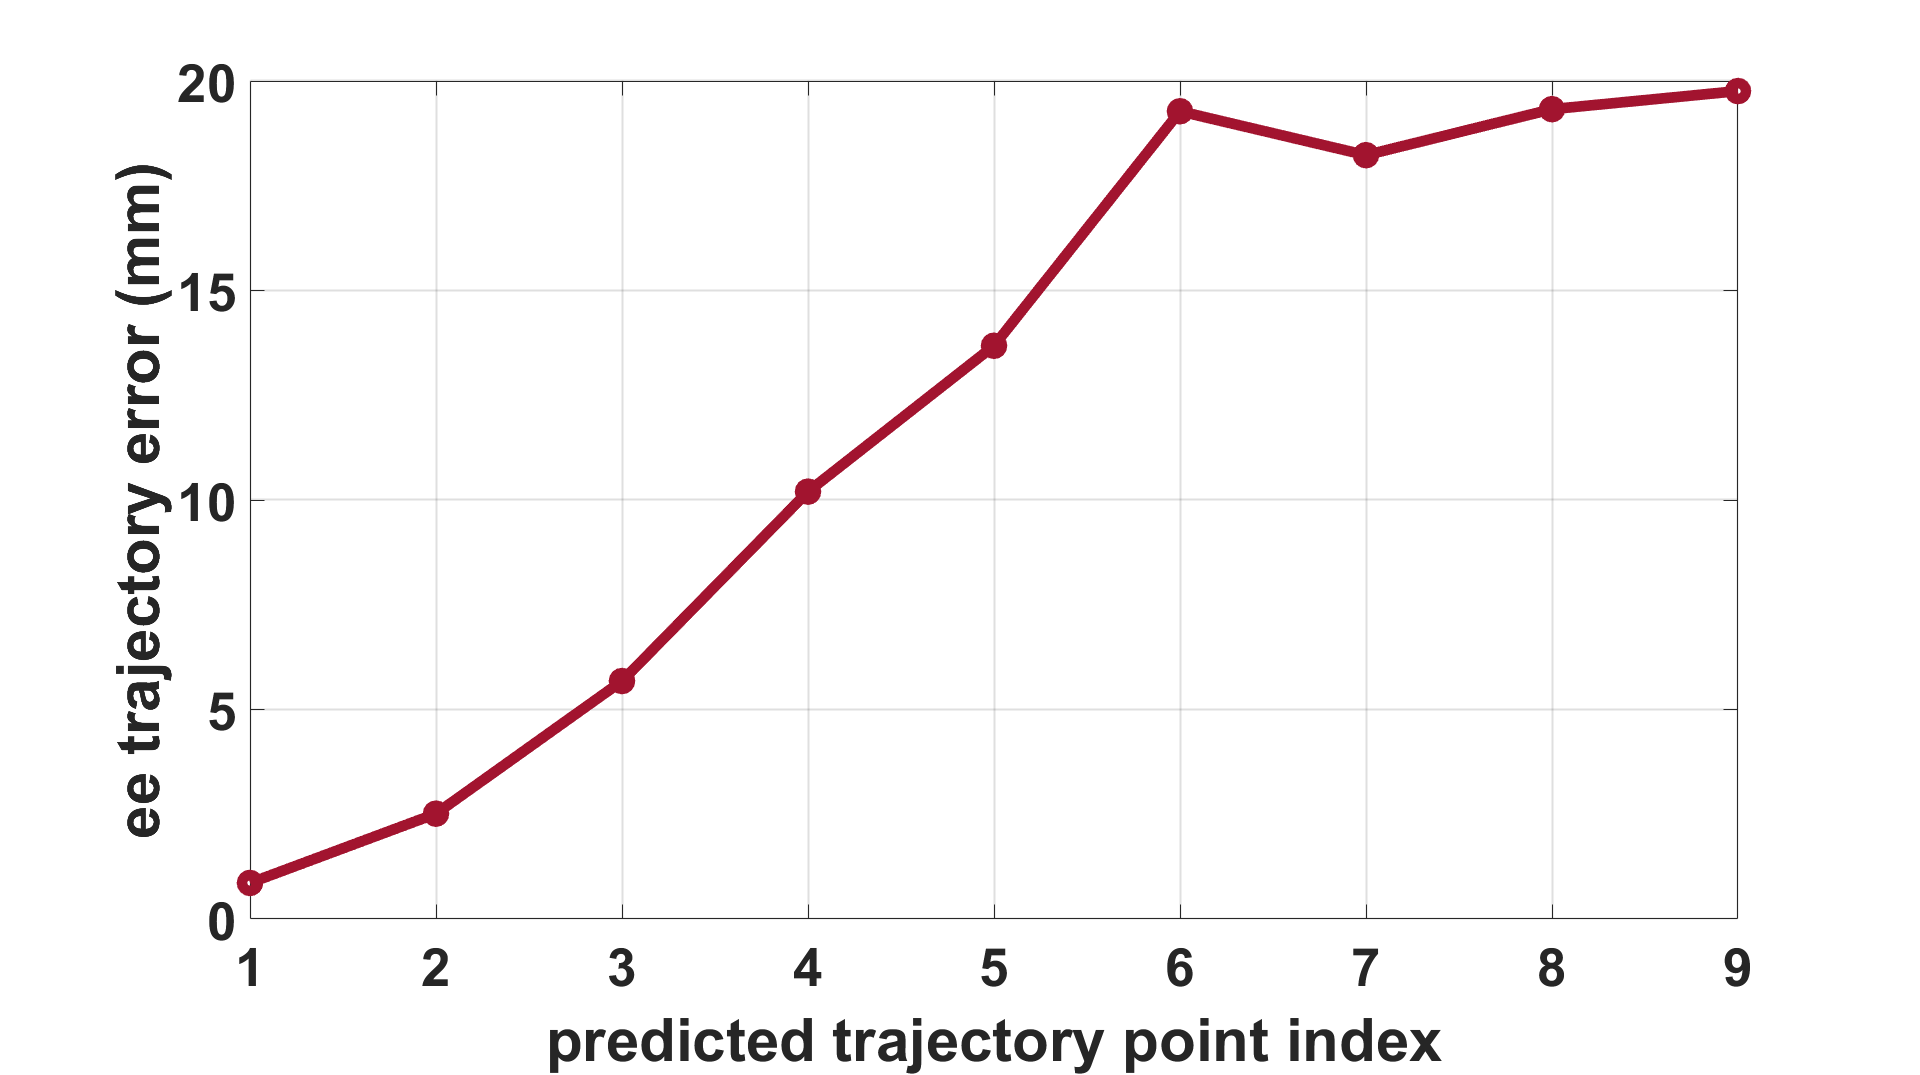
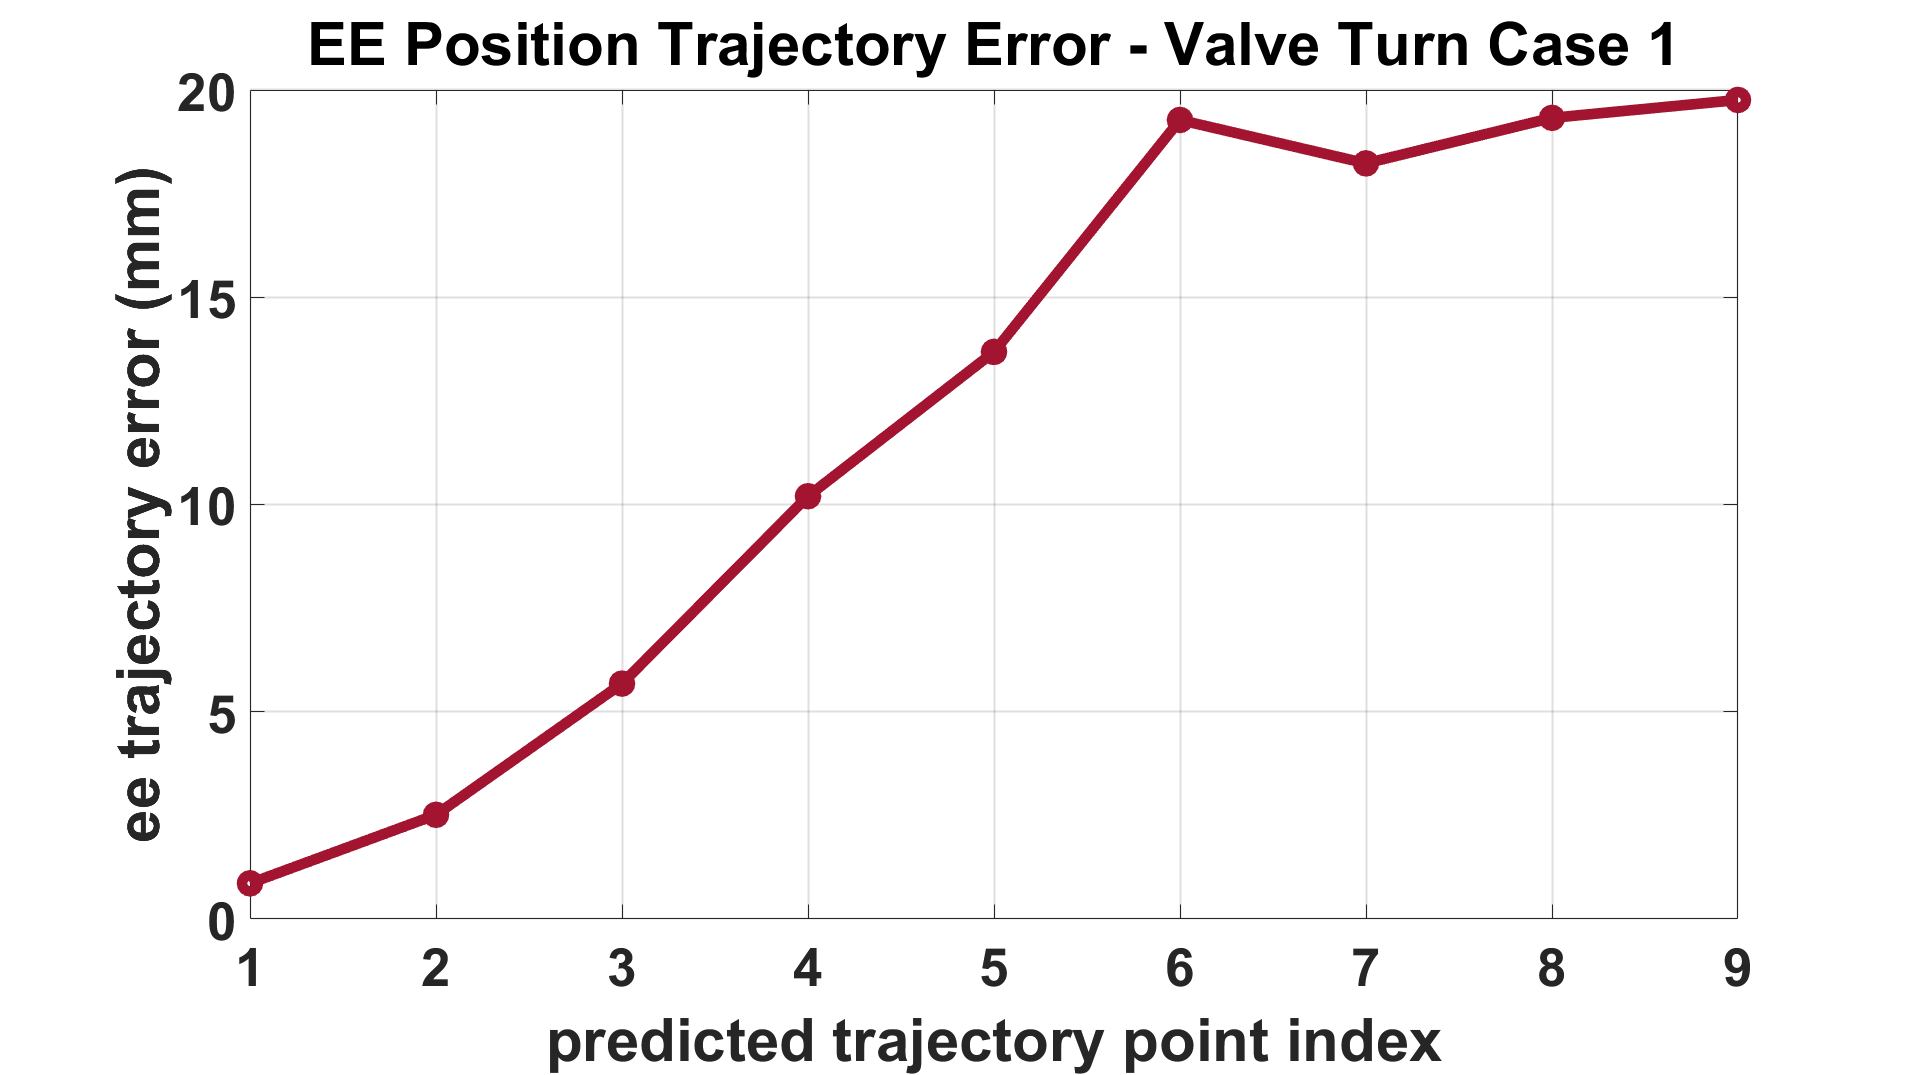
add subtitles

diff --git a/real_robot_data_plots_and_demos/orientation_experiments/valve_turn_case_1/ee_position_and_joint_states_plotter.m b/real_robot_data_plots_and_demos/orientation_experiments/valve_turn_case_1/ee_position_and_joint_states_plotter.m
@@ -207,7 +207,7 @@ grid_lw = 1.5;
 xlabel(ax_joint_states, 'time (s)');
 ylabel(ax_joint_states, 'joint states (rad)');
 legend(ax_joint_states,'Interpreter', 'none', 'Color', 'none'); % Don't interpret underscores as cues for subscripts, and don't fill the legend box
-% title(ax_joint_states, ['Actual Joint States vs. Time - ',title_postfix]);
+title(ax_joint_states, ['Actual Joint States vs. Time - ',title_postfix]);
 
 % Set fontsizes for various plot parameters
 ax_joint_states.XAxis.FontSize = tick_fontsize; 
@@ -218,15 +218,15 @@ ax_joint_states.XLabel.FontSize = label_fontsize;
 ax_joint_states.YLabel.FontSize = label_fontsize;
 ax_joint_states.ZLabel.FontSize = label_fontsize;
 ax_joint_states.Legend.FontSize = legend_fontsize;
-ax_joint_states.Legend.Location = "northeast";
+ax_joint_states.Legend.Location = "east";
 ax_joint_states.Title.FontSize = title_fontsize;
 ax_joint_states.GridLineWidth = grid_lw;
 
 % Set legend position
-% legend_position = ax_joint_states.Legend.Position;
-% shift_amount_x = 0.3825; 
-% shift_amount_y = 0.1825; 
-% ax_joint_states.Legend.Position = [legend_position(1) + shift_amount_x, legend_position(2)+ shift_amount_y, legend_position(3), legend_position(4)];
+legend_position = ax_joint_states.Legend.Position;
+shift_amount_x = 0.285; 
+shift_amount_y = 0.2125; 
+ax_joint_states.Legend.Position = [legend_position(1) + shift_amount_x, legend_position(2)+ shift_amount_y, legend_position(3), legend_position(4)];
 
 % Plot Error between predicted and actual EE cartesian trajectory
 fig3 = figure(3); 
@@ -338,7 +338,7 @@ ylim([25 325])
 
 xlabel(ax_ee_traj_final, 'x(mm)');
 ylabel(ax_ee_traj_final, 'z(mm)');
-% title(ax_ee_traj_final, ['EE Trajectory and Error - ',title_postfix]);
+title(ax_ee_traj_final, ['EE Position Trajectory - ',title_postfix]);
 hLegend = legend(ax_ee_traj_final, 'Interpreter', 'none', 'Color', 'none');
 hLegend.Box = 'on'; % Turn on the legend box (if not already on)
 hLegend.Color = 'white'; % Set the background color of the legend box
@@ -370,7 +370,7 @@ ax_ee_traj_final.Legend.FontSize = legend_fontsize;
 
 
 fig5 = figure(5);
-title_fontsize = 35;
+title_fontsize = 45;
 label_fontsize = 45;
 tick_fontsize = 40;
 grid_lw = 1.5;
@@ -386,7 +386,7 @@ plot(ax_ee_traj_error_final, ...
      'LineWidth', 8, 'MarkerSize', 12, 'DisplayName', 'trajectory error');
 xlabel(ax_ee_traj_error_final, 'predicted trajectory point index');
 ylabel(ax_ee_traj_error_final, 'ee trajectory error (mm)');
-% title(ax_ee_traj_error3, ['EE Trajectory Error - ',title_postfix]);
+title(ax_ee_traj_error_final, ['EE Position Trajectory Error - ',title_postfix]);
 
 grid on
 
@@ -470,7 +470,7 @@ grid on
 
 xlabel(ax_ee_or, 'time (t), s');
 ylabel(ax_ee_or, 'ee orientation, rad');
-% title(ax_ee_or, ['EE Orientation - ',title_postfix]);
+title(ax_ee_or, ['EE Orientation Trajectory - ',title_postfix]);
 % text(ax_ee_or, 0.2, 0.1, sprintf('p_p = %.3f*t + %.3f : predicted', pred_polyfit_euler_y), ...
 %     'Rotation', -35, 'FontWeight', 'bold', 'FontSize',25, 'Color', 'g');
 % text(ax_ee_or, -0.3, 0.0, sprintf('p_a = %.3f*t %.3f : actual', act_polyfit_euler_y), ...
